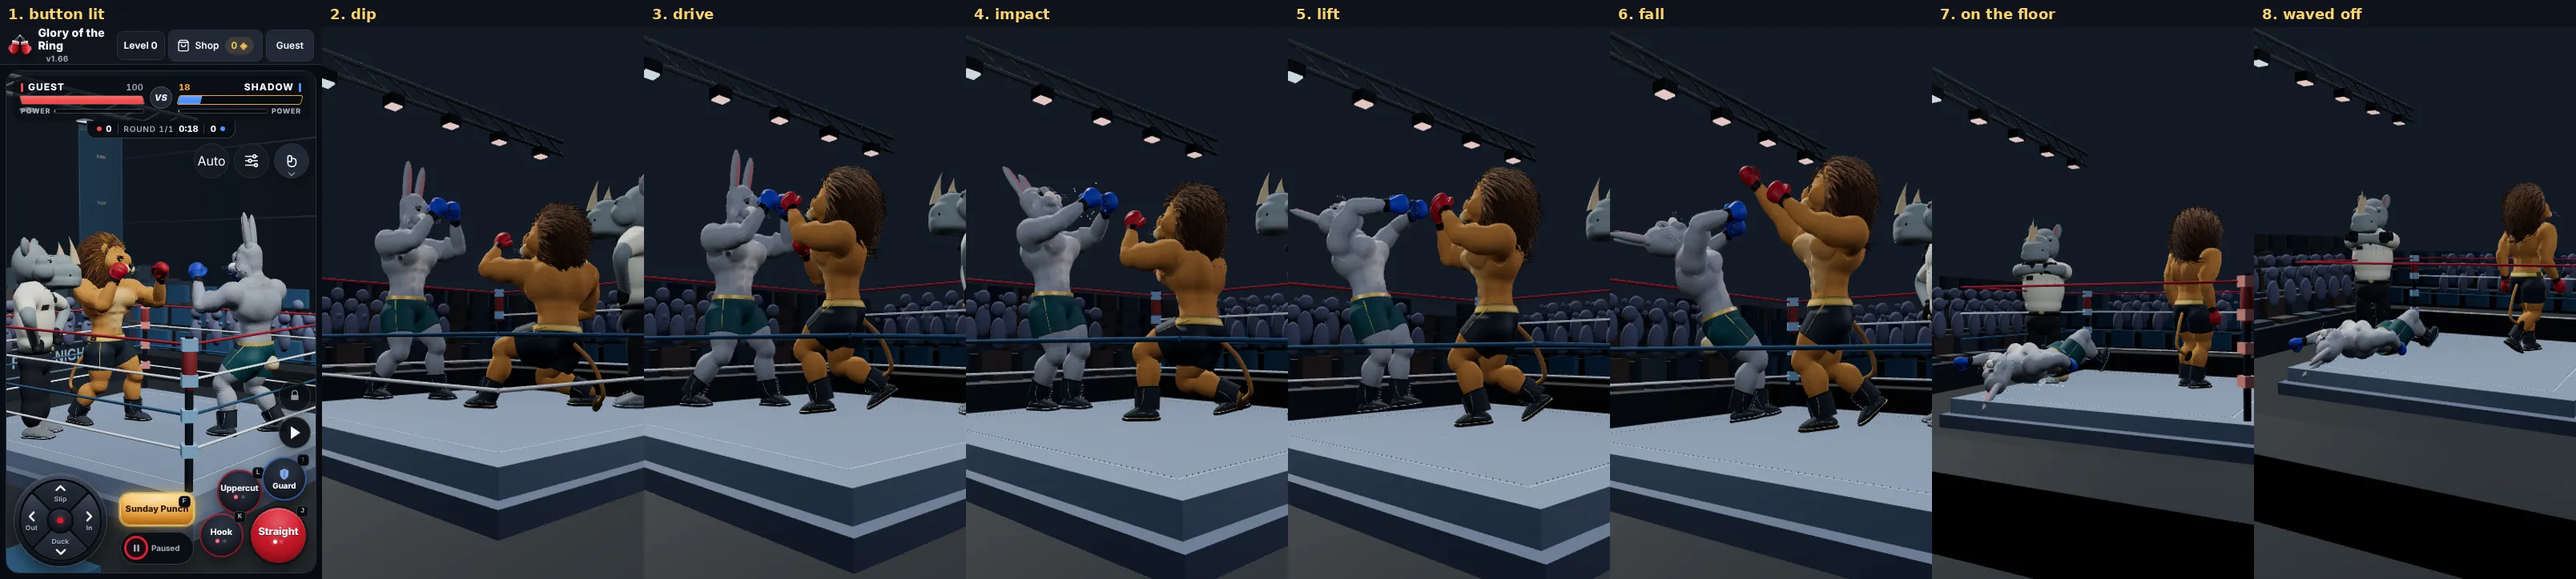
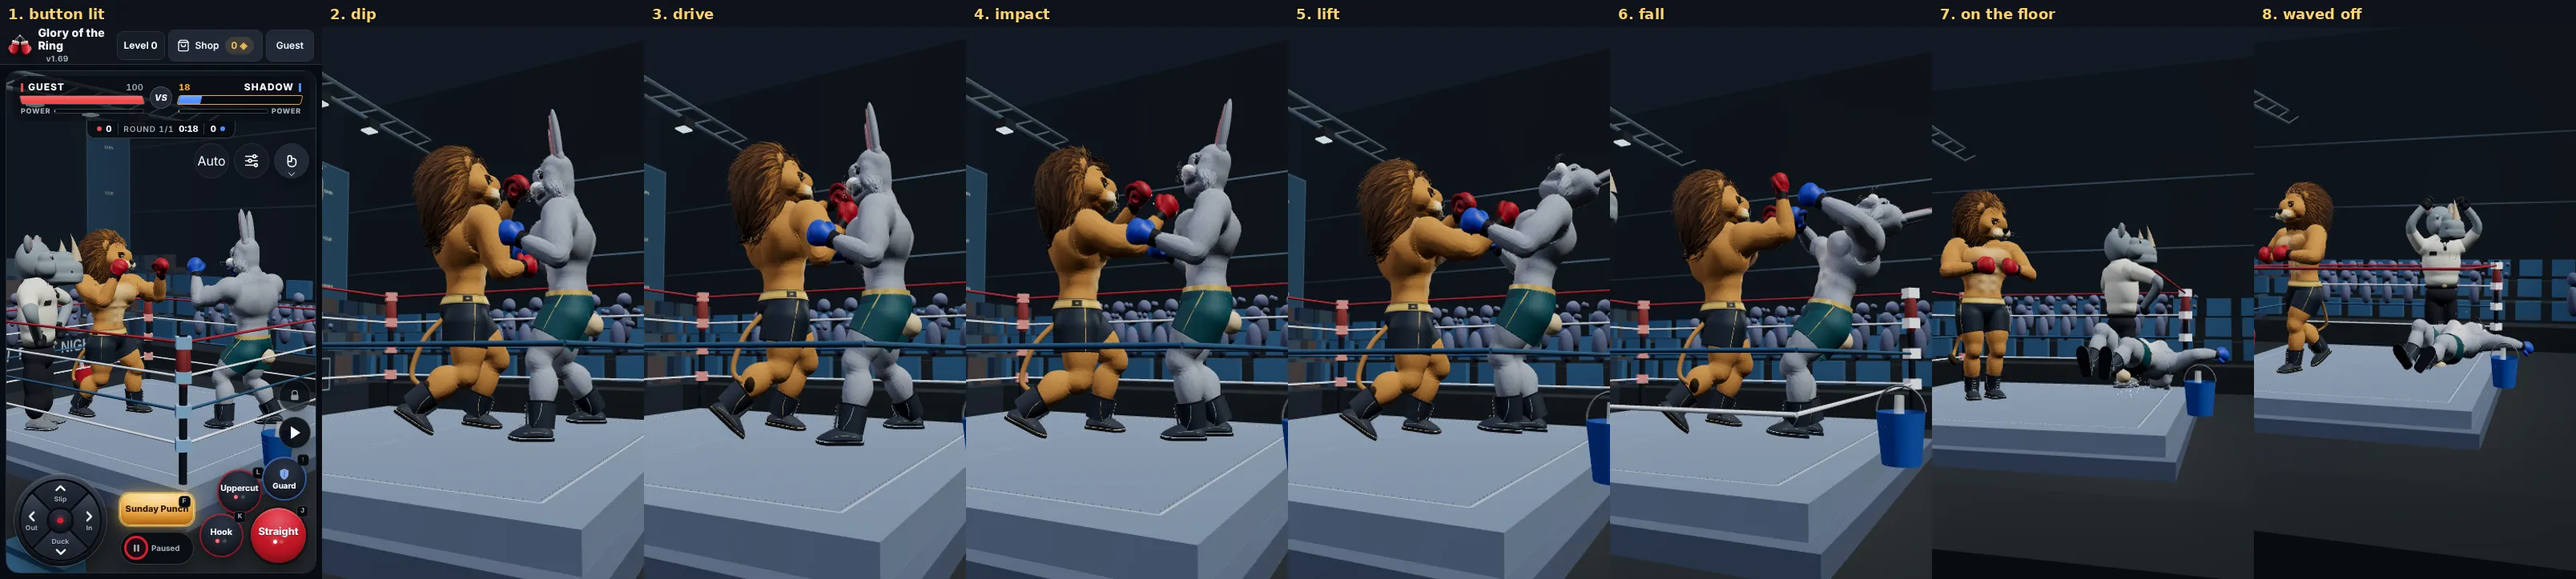
GOTR-0088: natural-bout strips (ring, gym), backlog status
Claude-Session: https://claude.ai/code/session_012XYxhJ7jTb1Ye5xdCZM7vq

diff --git a/docs/glory-of-the-ring/FEEDBACK_BACKLOG.md b/docs/glory-of-the-ring/FEEDBACK_BACKLOG.md
@@ -857,7 +857,7 @@ User tested the published build. Wording below is the user's request, lightly cl
 
 ### GOTR-0088 — Finisher: a signature super punch that knocks the Opponent out cold (earned or bought)
 - **Reported:** 2026-11-13
-- **Status:** READY FOR QA — `agent/sunday-punch` (not merged, not released). Engine `boxing-fight.js` (finisherState / requestFinisher / finisherHold, KO without a count, result waits ~3 s), punch options in `boxing-coach-v2.js` (upperDip / upperDrive, defaults unchanged) and `fight-arena.js`, presentation `sunday-punch.js` + `sunday-punch.css` (slow motion 0.3x, low camera, KO fall with canvas settle, referee / Bruno wave-off, winner to a neutral corner, flash, spray, dust, sounds, skip after the first time), pad button `fighter-pad.js` (F key), Shop + ownership `game-domain.js` / `game-shell.js` (150 ◈, free in dev; earned with `advanced_training`), ringless venues (no referee). Tests `tests/sunday-punch.test.cjs`; affected suite (fight punch pad burst domain story) green. Evidence `qa/gotr-0088/`. Limits: physical phones not verified; the referee rhino glides (no walk cycle); the striker's walk uses the street walk with gloves hanging; a live opponent still blocks ~2 in 10.
+- **Status:** READY FOR QA — `agent/sunday-punch` (not merged, not released). Engine `boxing-fight.js` (finisherState / requestFinisher / finisherHold, KO without a count, result waits ~3 s), punch options in `boxing-coach-v2.js` (upperDip / upperDrive, defaults unchanged) and `fight-arena.js`, presentation `sunday-punch.js` + `sunday-punch.css` (slow motion 0.3x, low camera, KO fall with canvas settle, referee / Bruno wave-off, winner to a neutral corner, flash, spray, dust, sounds, skip after the first time), pad button `fighter-pad.js` (F key), Shop + ownership `game-domain.js` / `game-shell.js` (150 ◈, free in dev; earned with `advanced_training`), ringless venues (no referee). Tests `tests/sunday-punch.test.cjs`; affected suite (fight punch pad burst domain story) green. Evidence `qa/gotr-0088/`. Polish 2026-11-14 (owner): impact under the jaw (glove contact 2.1–2.2 cm from the chin, fist top 3–4 cm, forearm 0.84–0.87 up; tested), a hurt Opponent's guard drops for the dip unless it was already up high (natural bouts 6/6 in the test), step inside with an 18 cm drop instead of a lunge, referee steps over and waves both arms over his head, Bruno walks and waves, winner walks with gloves up, gym result frames winner and Bruno; strips re-rendered from natural bouts. Limits: physical phones not verified; the rhino's walk only steps his shoes under one trouser mesh; Bruno's wave reads at chest-to-head height, not fully overhead; `sunday-punch-street.webp` / `-blocked.webp` are from the first pass; dream-pose.js (v1.69) dropped the gloves from its overlay return (a comment swallowed `gloves.push`) — worked around here, owner of that file should fix.
 - **Owner's words:** "Add a final super punch, like for example the famous uppercut to the chin [of a well-known heavyweight champion], and the opponent will fall on the floor, fainted. This has to be really animated. And this can be something that can be earned or bought."
 - **Design (integrator's proposal; original names only, no real fighter's name or likeness):**
   - A **Finisher** slot on the pad. First finisher: **"Sunday Punch"** (owner chose the name 2026-11-13; boxing slang for the knockout blow) — a dipping step inside, then a rising rear Uppercut under the chin.
